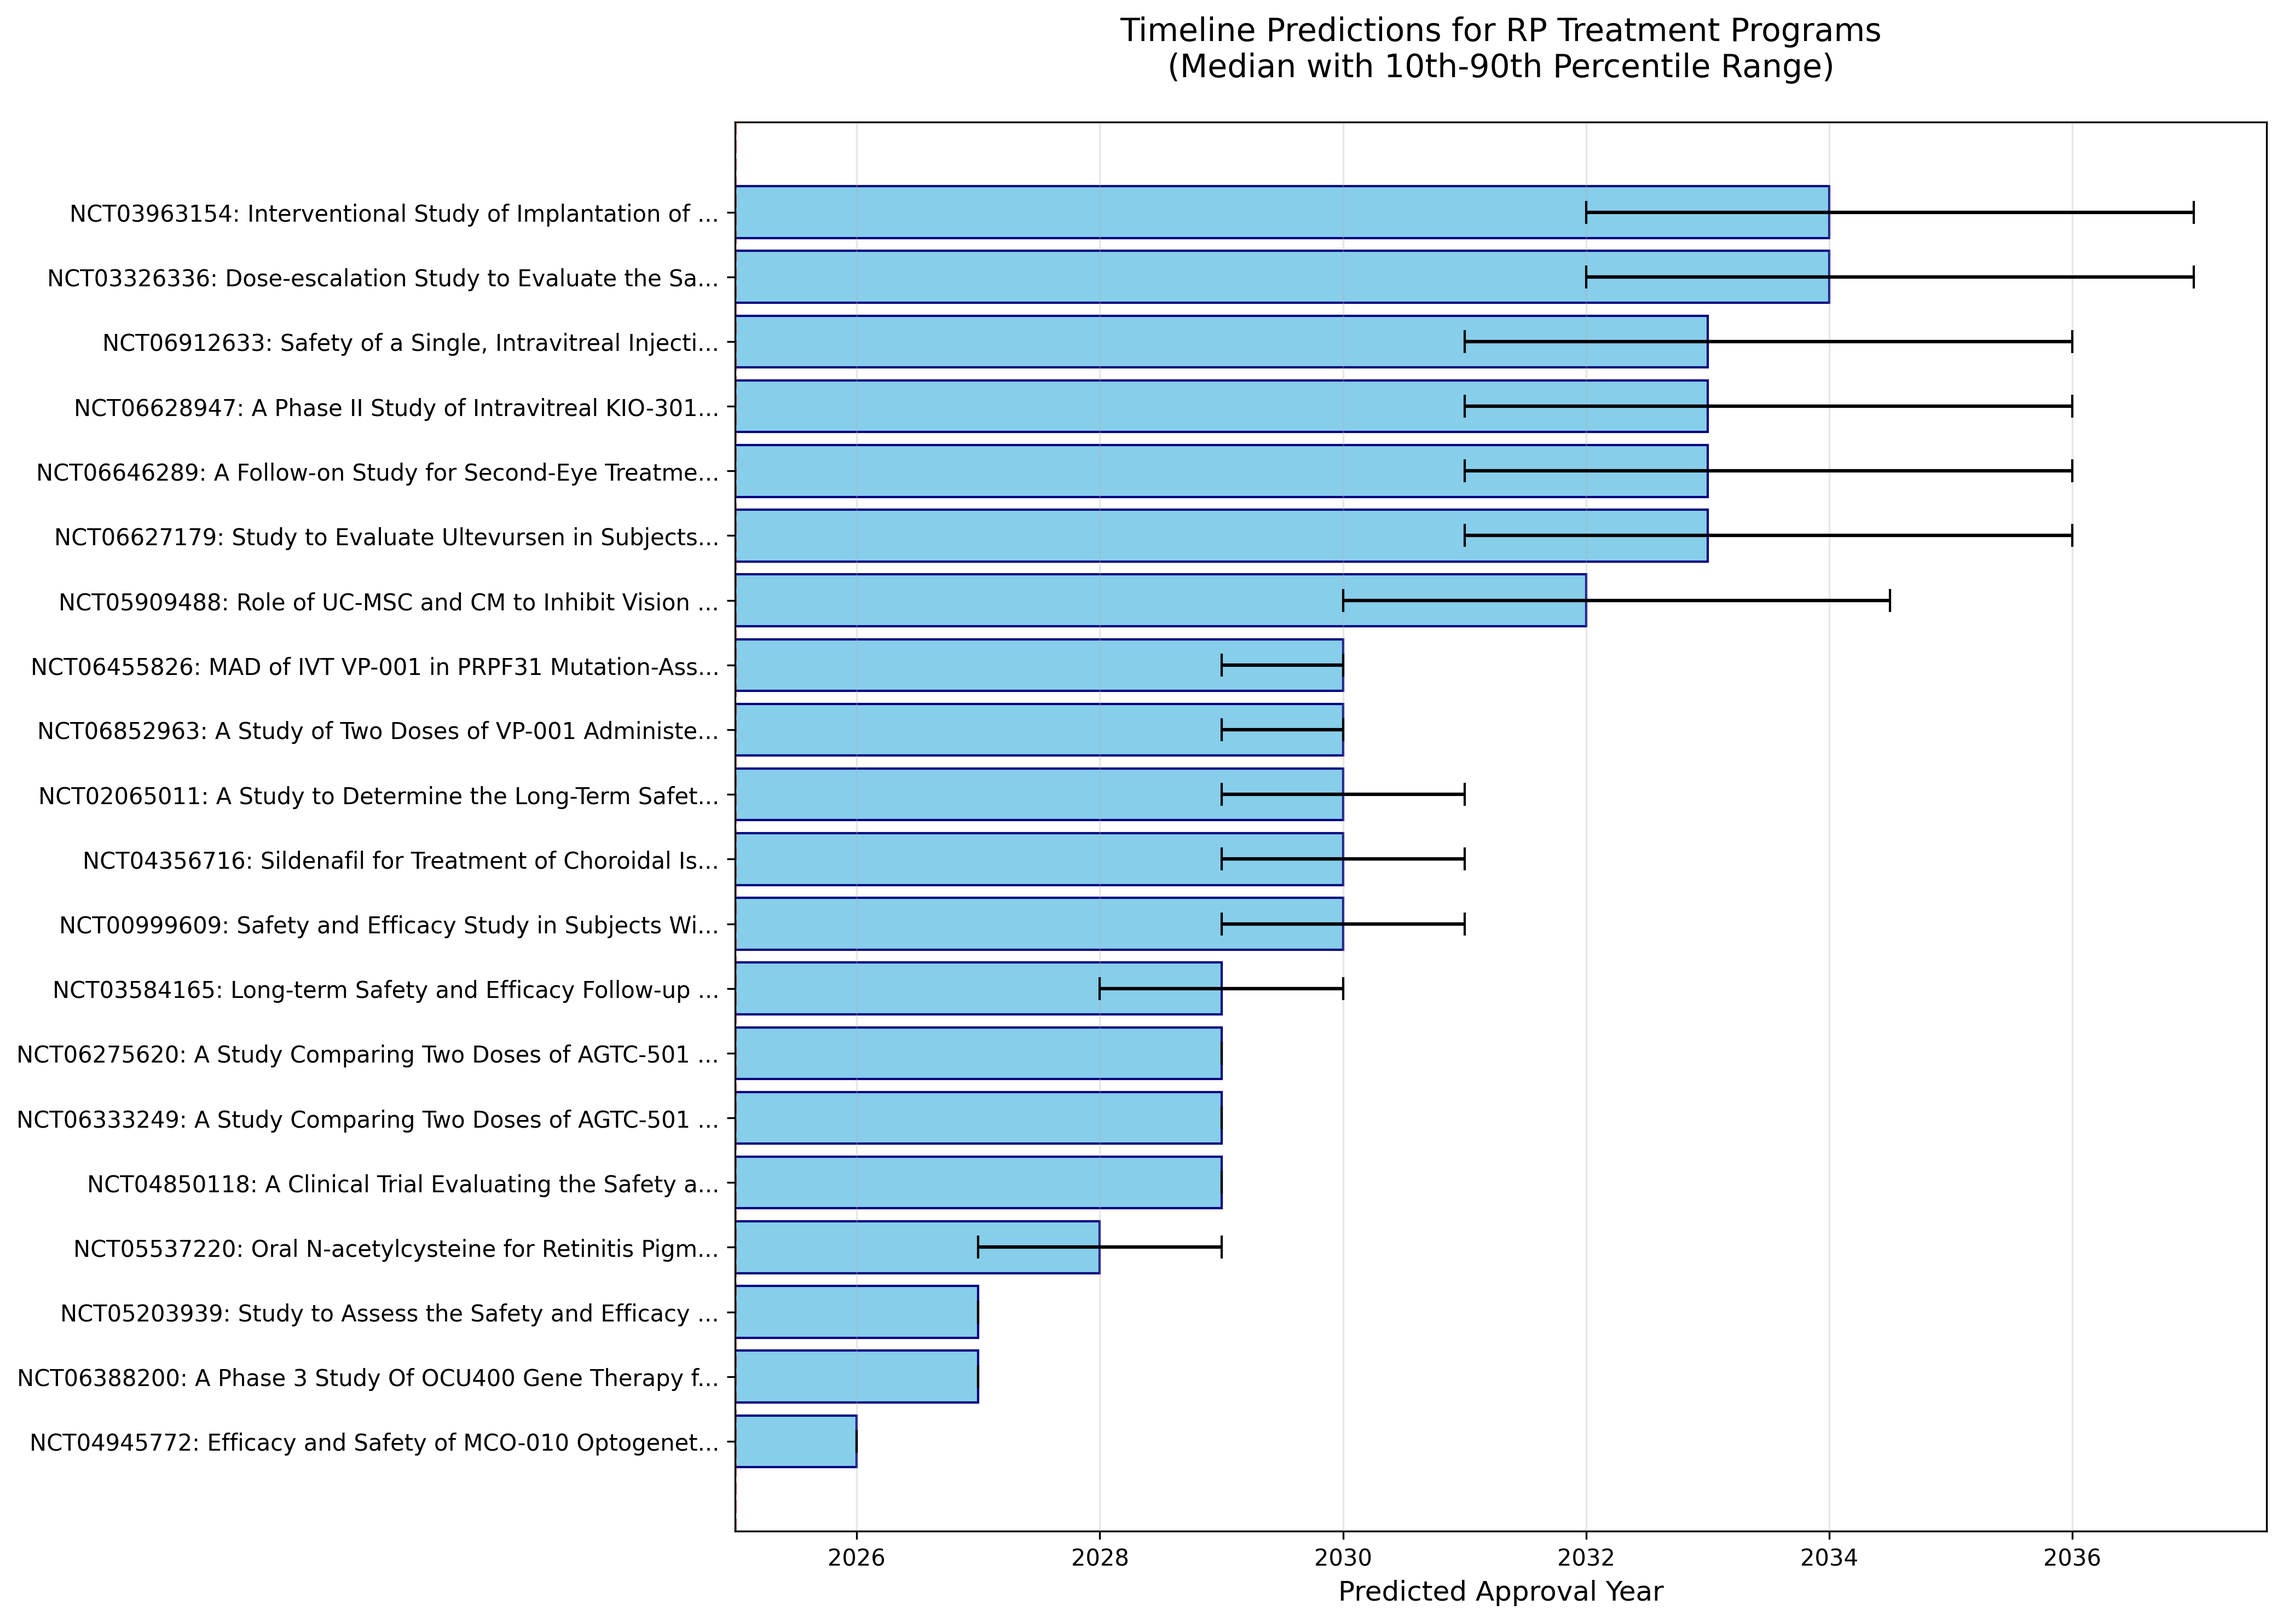
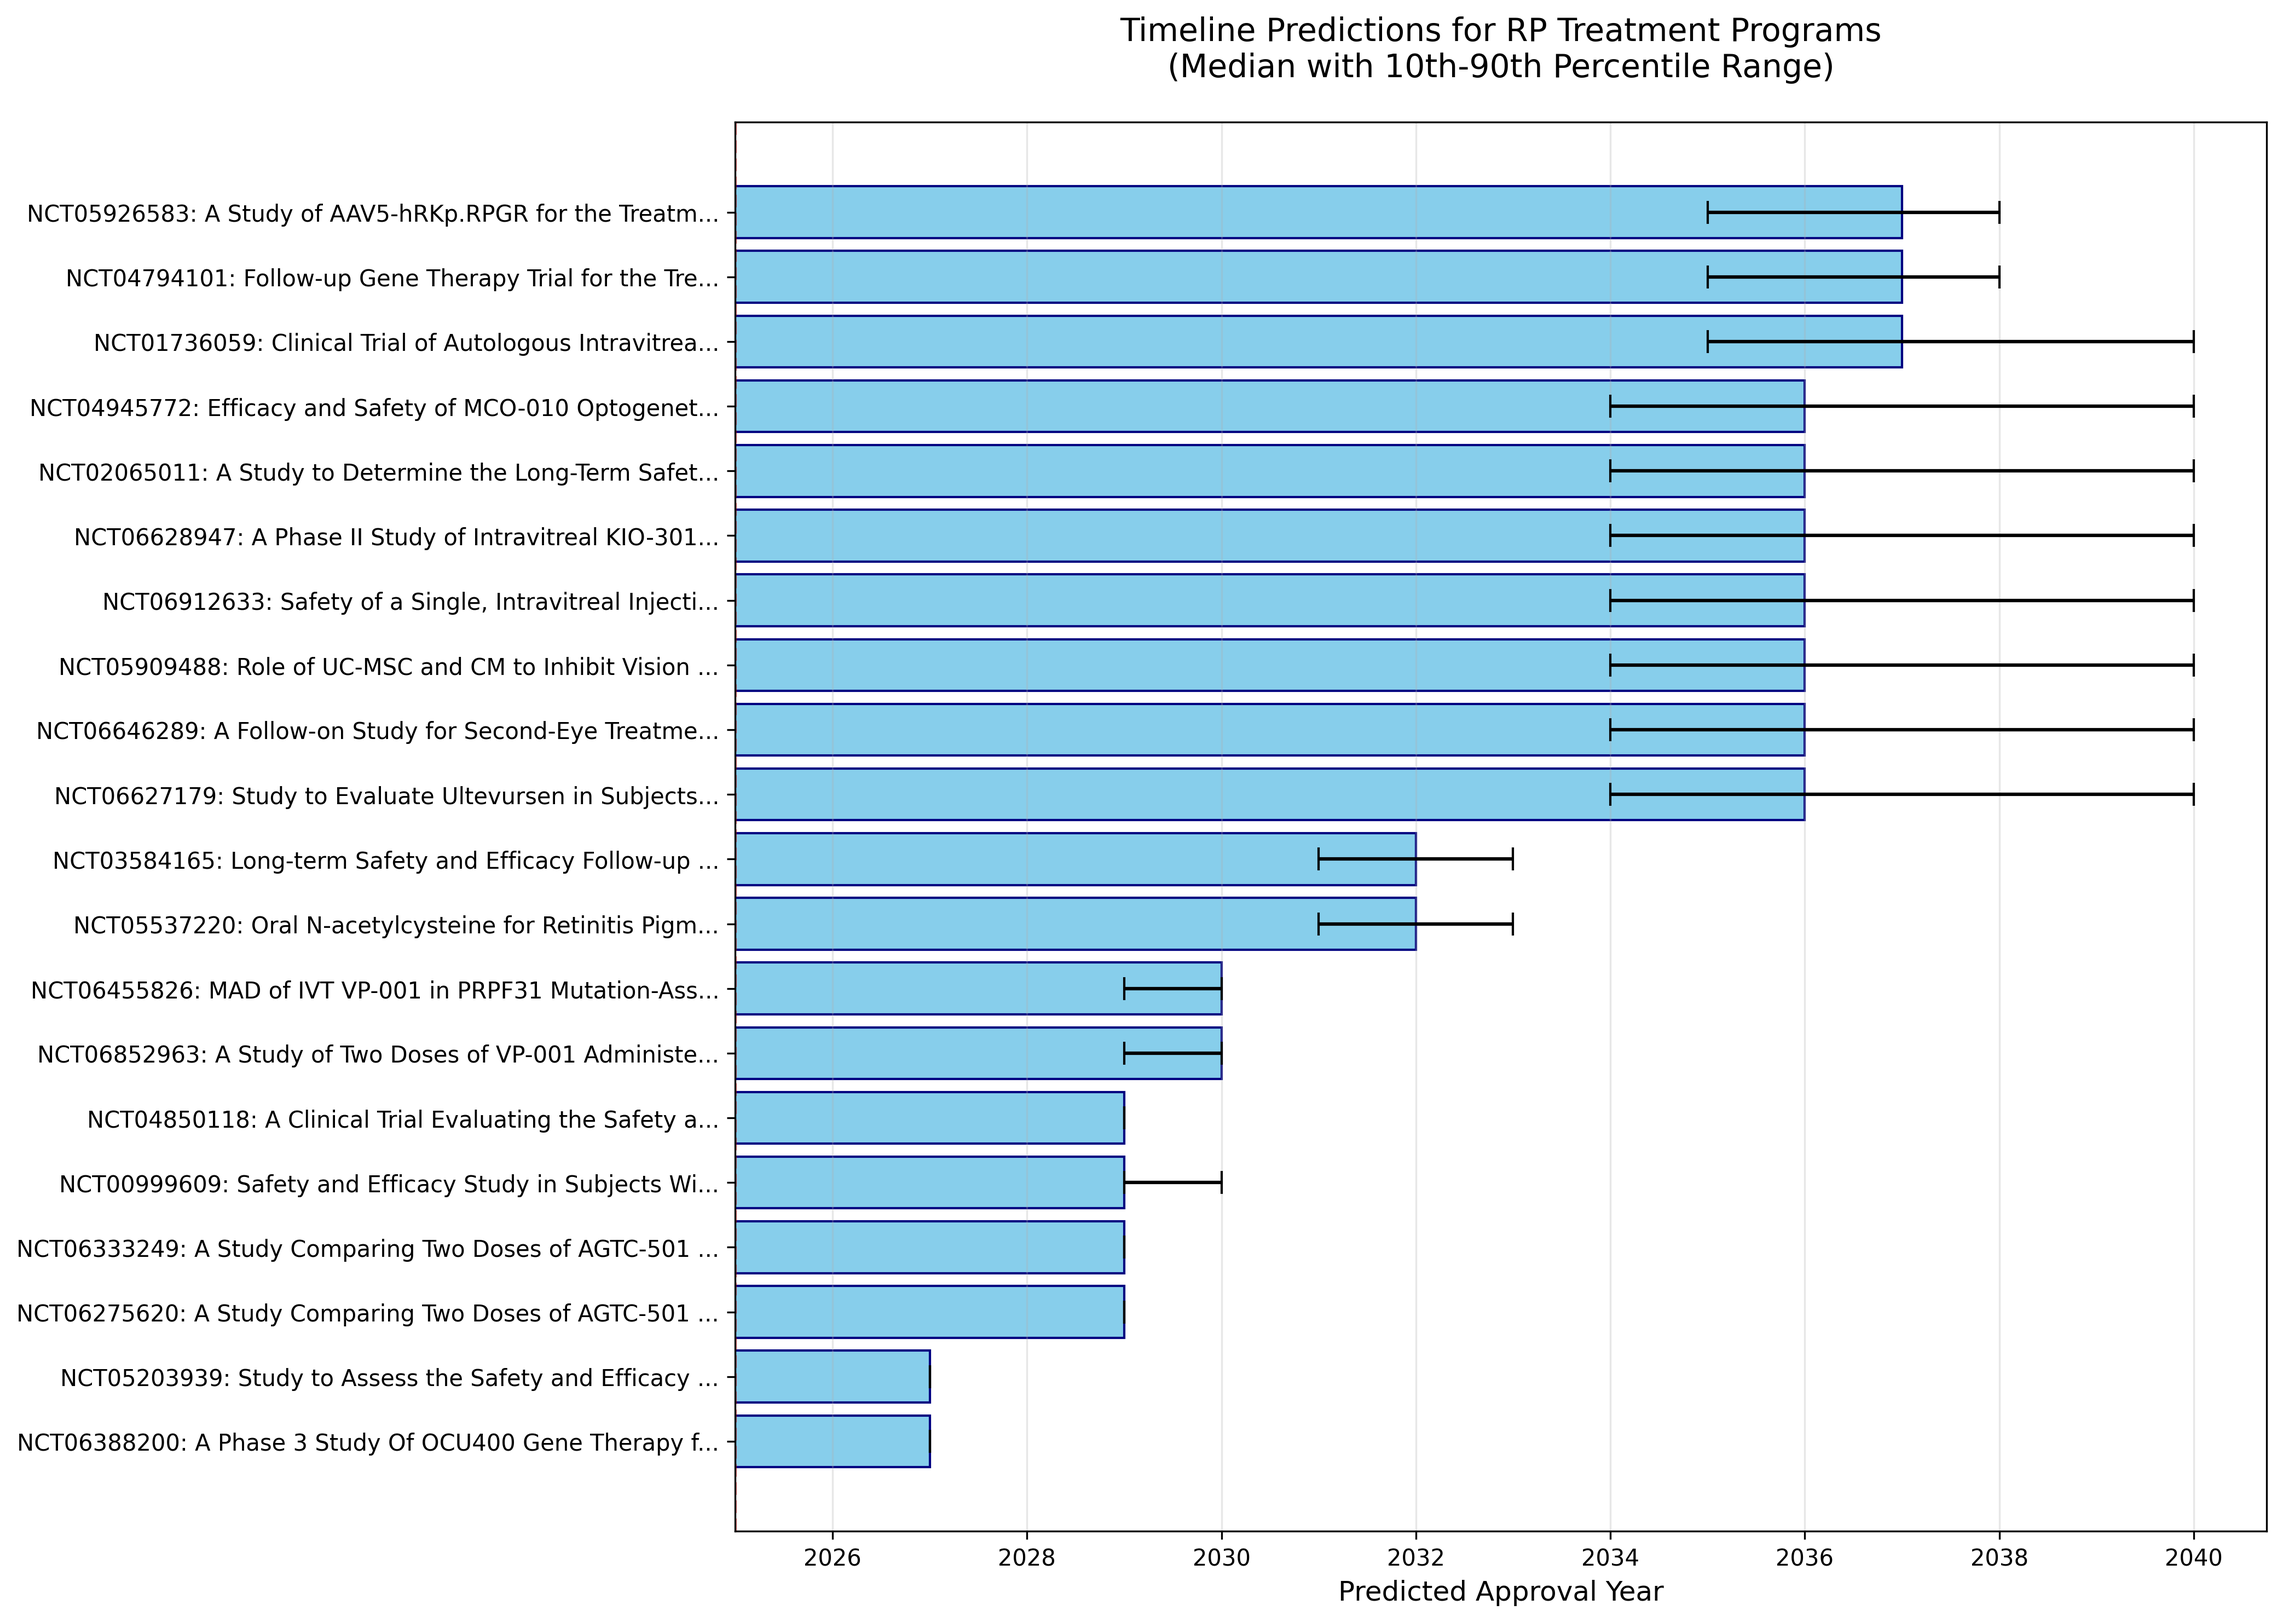
deploy: 0d17b0b1182362654b13f828d57fbe27a111722b

diff --git a/index.html b/index.html
@@ -121,7 +121,7 @@
         </nav>
         
         <h1>網膜色素変性症（RP）治療開発ロードマップ</h1>
-<p>生成日時: 2025年06月27日 18:50</p>
+<p>生成日時: 2025年07月20日 15:06</p>
 <h2>エグゼクティブサマリー</h2>
 <p>本レポートは、網膜色素変性症（Retinitis Pigmentosa, RP）の治療法開発状況を定量的に分析し、効果的な治療法がいつ頃利用可能になるかを予測したものです。</p>
 <h3>主要な発見（米国FDA承認基準）</h3>
@@ -129,7 +129,7 @@
 <li><strong>最速の承認予測</strong>: 2026年（MCO-010光遺伝学治療）</li>
 <li>根拠: <a href="https://clinicaltrials.gov/study/NCT04945772" target="_blank" rel="noopener noreferrer">https://clinicaltrials.gov/study/NCT04945772</a></li>
 <li><strong>全体の中央値</strong>: 2037年（複数の治療法が利用可能になる時期）</li>
-<li><strong>現在アクティブな臨床試験</strong>: 54件（重要な完了試験含む）</li>
+<li><strong>現在アクティブな臨床試験</strong>: 52件（重要な完了試験含む）</li>
 <li><strong>成功率</strong>: Phase 1: 86.2%, Phase 2: 78.4%, Phase 3: 71.4%</li>
 </ul>
 <p>⚠ <strong>重要</strong>: 上記の予測は<strong>米国FDA承認</strong>を基準としています。<br />
@@ -141,13 +141,13 @@
 <ul>
 <li><strong>データソース</strong>: ClinicalTrials.gov</li>
 <li><strong>総試験数</strong>: 127件</li>
-<li><strong>アクティブな試験</strong>: 51件</li>
-<li><strong>完了した試験</strong>: 51件</li>
+<li><strong>アクティブな試験</strong>: 49件</li>
+<li><strong>完了した試験</strong>: 52件</li>
 </ul>
 <h3>文献データ</h3>
 <ul>
 <li><strong>データソース</strong>: PubMed</li>
-<li><strong>総論文数</strong>: 806件</li>
+<li><strong>総論文数</strong>: 807件</li>
 <li><strong>検索クエリ</strong>: "retinitis pigmentosa" AND ("gene therapy" OR "cell therapy")</li>
 <li><strong>期間</strong>: 1993-2025年</li>
 </ul>
@@ -162,7 +162,7 @@
 <tbody>
 <tr>
 <td>2025</td>
-<td>43</td>
+<td>44</td>
 </tr>
 <tr>
 <td>2024</td>
@@ -205,16 +205,6 @@
 </thead>
 <tbody>
 <tr>
-<td>NCT04945772</td>
-<td>Efficacy and Safety of MCO-010 Optogenet...</td>
-<td>PHASE2</td>
-<td>Nanoscope Therapeutics Inc.</td>
-<td>100.0%</td>
-<td>2026年</td>
-<td>2031年</td>
-<td>[2026, 2026]</td>
-</tr>
-<tr>
 <td>NCT06388200</td>
 <td>A Phase 3 Study Of OCU400 Gene Therapy f...</td>
 <td>PHASE3</td>
@@ -235,19 +225,9 @@
 <td>[2027, 2027]</td>
 </tr>
 <tr>
-<td>NCT05537220</td>
-<td>Oral N-acetylcysteine for Retinitis Pigm...</td>
-<td>PHASE3</td>
-<td>Johns Hopkins University</td>
-<td>70.7%</td>
-<td>2028年</td>
-<td>2033年</td>
-<td>[2027, 2029]</td>
-</tr>
-<tr>
-<td>NCT04850118</td>
-<td>A Clinical Trial Evaluating the Safety a...</td>
-<td>PHASE2, PHASE3</td>
+<td>NCT06275620</td>
+<td>A Study Comparing Two Doses of AGTC-501 ...</td>
+<td>PHASE2</td>
 <td>Beacon Therapeutics</td>
 <td>100.0%</td>
 <td>2029年</td>
@@ -265,9 +245,19 @@
 <td>[2029, 2029]</td>
 </tr>
 <tr>
-<td>NCT06275620</td>
-<td>A Study Comparing Two Doses of AGTC-501 ...</td>
-<td>PHASE2</td>
+<td>NCT00999609</td>
+<td>Safety and Efficacy Study in Subjects Wi...</td>
+<td>PHASE3</td>
+<td>Spark Therapeutics, Inc.</td>
+<td>71.7%</td>
+<td>2029年</td>
+<td>2034年</td>
+<td>[2029, 2030]</td>
+</tr>
+<tr>
+<td>NCT04850118</td>
+<td>A Clinical Trial Evaluating the Safety a...</td>
+<td>PHASE2, PHASE3</td>
 <td>Beacon Therapeutics</td>
 <td>100.0%</td>
 <td>2029年</td>
@@ -275,34 +265,44 @@
 <td>[2029, 2029]</td>
 </tr>
 <tr>
+<td>NCT06852963</td>
+<td>A Study of Two Doses of VP-001 Administe...</td>
+<td>PHASE1, PHASE2</td>
+<td>PYC Therapeutics</td>
+<td>100.0%</td>
+<td>2030年</td>
+<td>2035年</td>
+<td>[2029, 2030]</td>
+</tr>
+<tr>
+<td>NCT06455826</td>
+<td>MAD of IVT VP-001 in PRPF31 Mutation-Ass...</td>
+<td>PHASE1</td>
+<td>PYC Therapeutics</td>
+<td>100.0%</td>
+<td>2030年</td>
+<td>2035年</td>
+<td>[2029, 2030]</td>
+</tr>
+<tr>
+<td>NCT05537220</td>
+<td>Oral N-acetylcysteine for Retinitis Pigm...</td>
+<td>PHASE3</td>
+<td>Johns Hopkins University</td>
+<td>71.1%</td>
+<td>2032年</td>
+<td>2037年</td>
+<td>[2031, 2033]</td>
+</tr>
+<tr>
 <td>NCT03584165</td>
 <td>Long-term Safety and Efficacy Follow-up ...</td>
 <td>PHASE3</td>
 <td>NightstaRx Ltd, a Biogen Company</td>
-<td>71.2%</td>
-<td>2029年</td>
-<td>2034年</td>
-<td>[2028, 2030]</td>
-</tr>
-<tr>
-<td>NCT00999609</td>
-<td>Safety and Efficacy Study in Subjects Wi...</td>
-<td>PHASE3</td>
-<td>Spark Therapeutics, Inc.</td>
-<td>71.6%</td>
-<td>2030年</td>
-<td>2035年</td>
-<td>[2029, 2031]</td>
-</tr>
-<tr>
-<td>NCT04356716</td>
-<td>Sildenafil for Treatment of Choroidal Is...</td>
-<td>PHASE2</td>
-<td>Columbia University</td>
-<td>55.8%</td>
-<td>2030年</td>
-<td>2035年</td>
-<td>[2029, 2031]</td>
+<td>70.8%</td>
+<td>2032年</td>
+<td>2037年</td>
+<td>[2031, 2033]</td>
 </tr>
 </tbody>
 </table>
@@ -320,13 +320,6 @@
 </thead>
 <tbody>
 <tr>
-<td>NCT04945772</td>
-<td>2026年</td>
-<td><strong>2031年</strong></td>
-<td>[2030, 2032]</td>
-<td>+5.0年</td>
-</tr>
-<tr>
 <td>NCT06388200</td>
 <td>2027年</td>
 <td><strong>2032年</strong></td>
@@ -341,14 +334,21 @@
 <td>+5.0年</td>
 </tr>
 <tr>
-<td>NCT05537220</td>
-<td>2028年</td>
-<td><strong>2033年</strong></td>
-<td>[2032, 2035]</td>
+<td>NCT06275620</td>
+<td>2029年</td>
+<td><strong>2034年</strong></td>
+<td>[2033, 2035]</td>
 <td>+5.0年</td>
 </tr>
 <tr>
-<td>NCT04850118</td>
+<td>NCT06333249</td>
+<td>2029年</td>
+<td><strong>2034年</strong></td>
+<td>[2033, 2035]</td>
+<td>+5.0年</td>
+</tr>
+<tr>
+<td>NCT00999609</td>
 <td>2029年</td>
 <td><strong>2034年</strong></td>
 <td>[2033, 2035]</td>
@@ -381,9 +381,11 @@
 <p><img alt="トルネード図" src="figs/tornado.png" /></p>
 <h3>主要な影響要因</h3>
 <ul>
-<li><strong>PHASE2 duration</strong> (increase 20%): +0.6年の影響</li>
-<li><strong>PHASE1 duration</strong> (increase 20%): +0.4年の影響</li>
-<li><strong>PHASE3 duration</strong> (increase 20%): +0.4年の影響</li>
+<li><strong>PHASE3 duration</strong> (increase 20%): +1.0年の影響</li>
+<li><strong>PHASE1 duration</strong> (increase 20%): +0.8年の影響</li>
+<li><strong>PHASE2 duration</strong> (increase 20%): +0.8年の影響</li>
+<li><strong>regulatory review</strong> (increase 20%): +0.4年の影響</li>
+<li><strong>BLA MAA submission</strong> (increase 20%): +0.4年の影響</li>
 </ul>
 <h2>4. 予測の可視化</h2>
 <h3>累積承認確率</h3>

diff --git a/index.md b/index.md
@@ -1,6 +1,6 @@
 # 網膜色素変性症（RP）治療開発ロードマップ
 
-生成日時: 2025年06月27日 18:50
+生成日時: 2025年07月20日 15:06
 
 ## エグゼクティブサマリー
 
@@ -11,7 +11,7 @@
 - **最速の承認予測**: 2026年（MCO-010光遺伝学治療）
   - 根拠: https://clinicaltrials.gov/study/NCT04945772
 - **全体の中央値**: 2037年（複数の治療法が利用可能になる時期）
-- **現在アクティブな臨床試験**: 54件（重要な完了試験含む）
+- **現在アクティブな臨床試験**: 52件（重要な完了試験含む）
 - **成功率**: Phase 1: 86.2%, Phase 2: 78.4%, Phase 3: 71.4%
 
 ⚠ **重要**: 上記の予測は**米国FDA承認**を基準としています。
@@ -24,19 +24,19 @@
 ### 臨床試験データ
 - **データソース**: ClinicalTrials.gov
 - **総試験数**: 127件
-- **アクティブな試験**: 51件
-- **完了した試験**: 51件
+- **アクティブな試験**: 49件
+- **完了した試験**: 52件
 
 ### 文献データ
 - **データソース**: PubMed
-- **総論文数**: 806件
+- **総論文数**: 807件
 - **検索クエリ**: "retinitis pigmentosa" AND ("gene therapy" OR "cell therapy")
 - **期間**: 1993-2025年
 
 #### 年別論文数（直近5年）
 | 年 | 論文数 |
 |---|--------|
-| 2025 | 43 |
+| 2025 | 44 |
 | 2024 | 64 |
 | 2023 | 98 |
 | 2022 | 67 |
@@ -54,16 +54,16 @@
 
 | 試験ID | 治療法名 | フェーズ | スポンサー | 成功率 | FDA承認予測（中央値） | 日本承認予測（中央値） | 90%信頼区間（FDA） |
 |--------|----------|----------|------------|--------|---------------------|---------------------|------------------|
-| NCT04945772 | Efficacy and Safety of MCO-010 Optogenet... | PHASE2 | Nanoscope Therapeutics Inc. | 100.0% | 2026年 | 2031年 | [2026, 2026] |
 | NCT06388200 | A Phase 3 Study Of OCU400 Gene Therapy f... | PHASE3 | Ocugen | 100.0% | 2027年 | 2032年 | [2027, 2027] |
 | NCT05203939 | Study to Assess the Safety and Efficacy ... | PHASE1, PHASE2 | Ocugen | 100.0% | 2027年 | 2032年 | [2027, 2027] |
-| NCT05537220 | Oral N-acetylcysteine for Retinitis Pigm... | PHASE3 | Johns Hopkins University | 70.7% | 2028年 | 2033年 | [2027, 2029] |
-| NCT04850118 | A Clinical Trial Evaluating the Safety a... | PHASE2, PHASE3 | Beacon Therapeutics | 100.0% | 2029年 | 2034年 | [2029, 2029] |
-| NCT06333249 | A Study Comparing Two Doses of AGTC-501 ... | PHASE2 | Beacon Therapeutics | 100.0% | 2029年 | 2034年 | [2029, 2029] |
 | NCT06275620 | A Study Comparing Two Doses of AGTC-501 ... | PHASE2 | Beacon Therapeutics | 100.0% | 2029年 | 2034年 | [2029, 2029] |
-| NCT03584165 | Long-term Safety and Efficacy Follow-up ... | PHASE3 | NightstaRx Ltd, a Biogen Company | 71.2% | 2029年 | 2034年 | [2028, 2030] |
-| NCT00999609 | Safety and Efficacy Study in Subjects Wi... | PHASE3 | Spark Therapeutics, Inc. | 71.6% | 2030年 | 2035年 | [2029, 2031] |
-| NCT04356716 | Sildenafil for Treatment of Choroidal Is... | PHASE2 | Columbia University | 55.8% | 2030年 | 2035年 | [2029, 2031] |
+| NCT06333249 | A Study Comparing Two Doses of AGTC-501 ... | PHASE2 | Beacon Therapeutics | 100.0% | 2029年 | 2034年 | [2029, 2029] |
+| NCT00999609 | Safety and Efficacy Study in Subjects Wi... | PHASE3 | Spark Therapeutics, Inc. | 71.7% | 2029年 | 2034年 | [2029, 2030] |
+| NCT04850118 | A Clinical Trial Evaluating the Safety a... | PHASE2, PHASE3 | Beacon Therapeutics | 100.0% | 2029年 | 2034年 | [2029, 2029] |
+| NCT06852963 | A Study of Two Doses of VP-001 Administe... | PHASE1, PHASE2 | PYC Therapeutics | 100.0% | 2030年 | 2035年 | [2029, 2030] |
+| NCT06455826 | MAD of IVT VP-001 in PRPF31 Mutation-Ass... | PHASE1 | PYC Therapeutics | 100.0% | 2030年 | 2035年 | [2029, 2030] |
+| NCT05537220 | Oral N-acetylcysteine for Retinitis Pigm... | PHASE3 | Johns Hopkins University | 71.1% | 2032年 | 2037年 | [2031, 2033] |
+| NCT03584165 | Long-term Safety and Efficacy Follow-up ... | PHASE3 | NightstaRx Ltd, a Biogen Company | 70.8% | 2032年 | 2037年 | [2031, 2033] |
 
 
 ### 日本での承認予測
@@ -72,11 +72,11 @@
 
 | 治療法 | FDA承認予測 | 日本承認予測（中央値） | 日本承認90%信頼区間 | 遅延期間（中央値） |
 |--------|------------|---------------------|-------------------|---------------------|
-| NCT04945772 | 2026年 | **2031年** | [2030, 2032] | +5.0年 |
 | NCT06388200 | 2027年 | **2032年** | [2031, 2033] | +5.0年 |
 | NCT05203939 | 2027年 | **2032年** | [2031, 2033] | +5.0年 |
-| NCT05537220 | 2028年 | **2033年** | [2032, 2035] | +5.0年 |
-| NCT04850118 | 2029年 | **2034年** | [2033, 2035] | +5.0年 |
+| NCT06275620 | 2029年 | **2034年** | [2033, 2035] | +5.0年 |
+| NCT06333249 | 2029年 | **2034年** | [2033, 2035] | +5.0年 |
+| NCT00999609 | 2029年 | **2034年** | [2033, 2035] | +5.0年 |
 
 
 詳細は[地域別承認予測タイムライン](regional_approval_timeline.html)をご覧ください。
@@ -105,9 +105,11 @@
 ![トルネード図](figs/tornado.png)
 
 ### 主要な影響要因
-- **PHASE2 duration** (increase 20%): +0.6年の影響
-- **PHASE1 duration** (increase 20%): +0.4年の影響
-- **PHASE3 duration** (increase 20%): +0.4年の影響
+- **PHASE3 duration** (increase 20%): +1.0年の影響
+- **PHASE1 duration** (increase 20%): +0.8年の影響
+- **PHASE2 duration** (increase 20%): +0.8年の影響
+- **regulatory review** (increase 20%): +0.4年の影響
+- **BLA MAA submission** (increase 20%): +0.4年の影響
 
 
 ## 4. 予測の可視化
